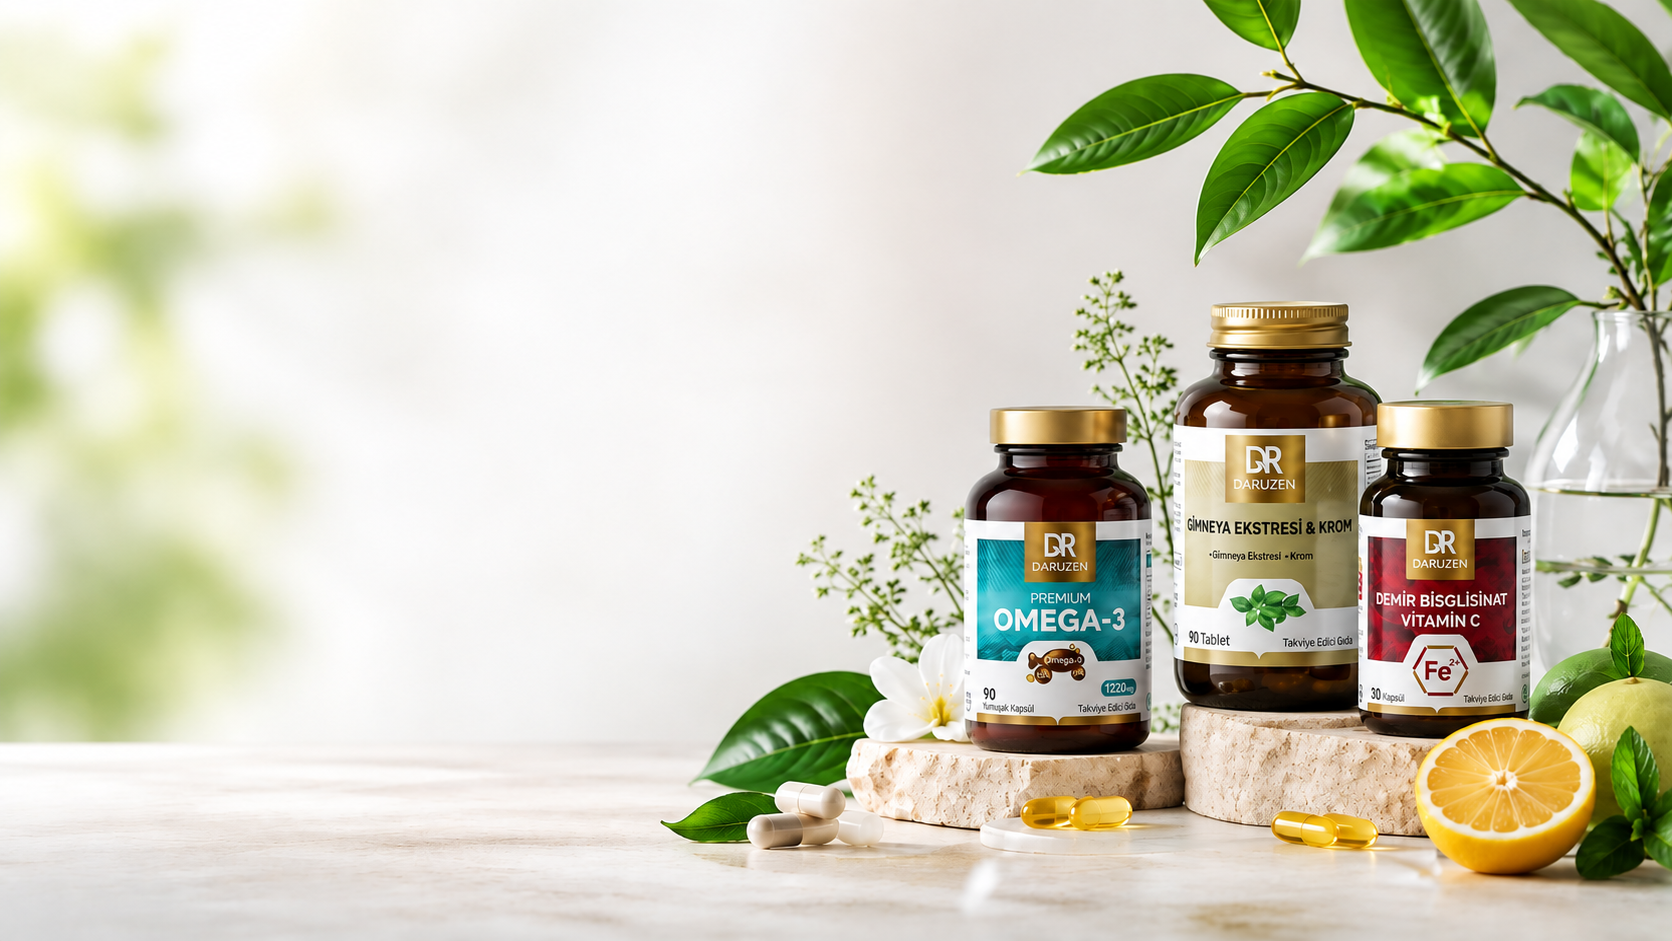
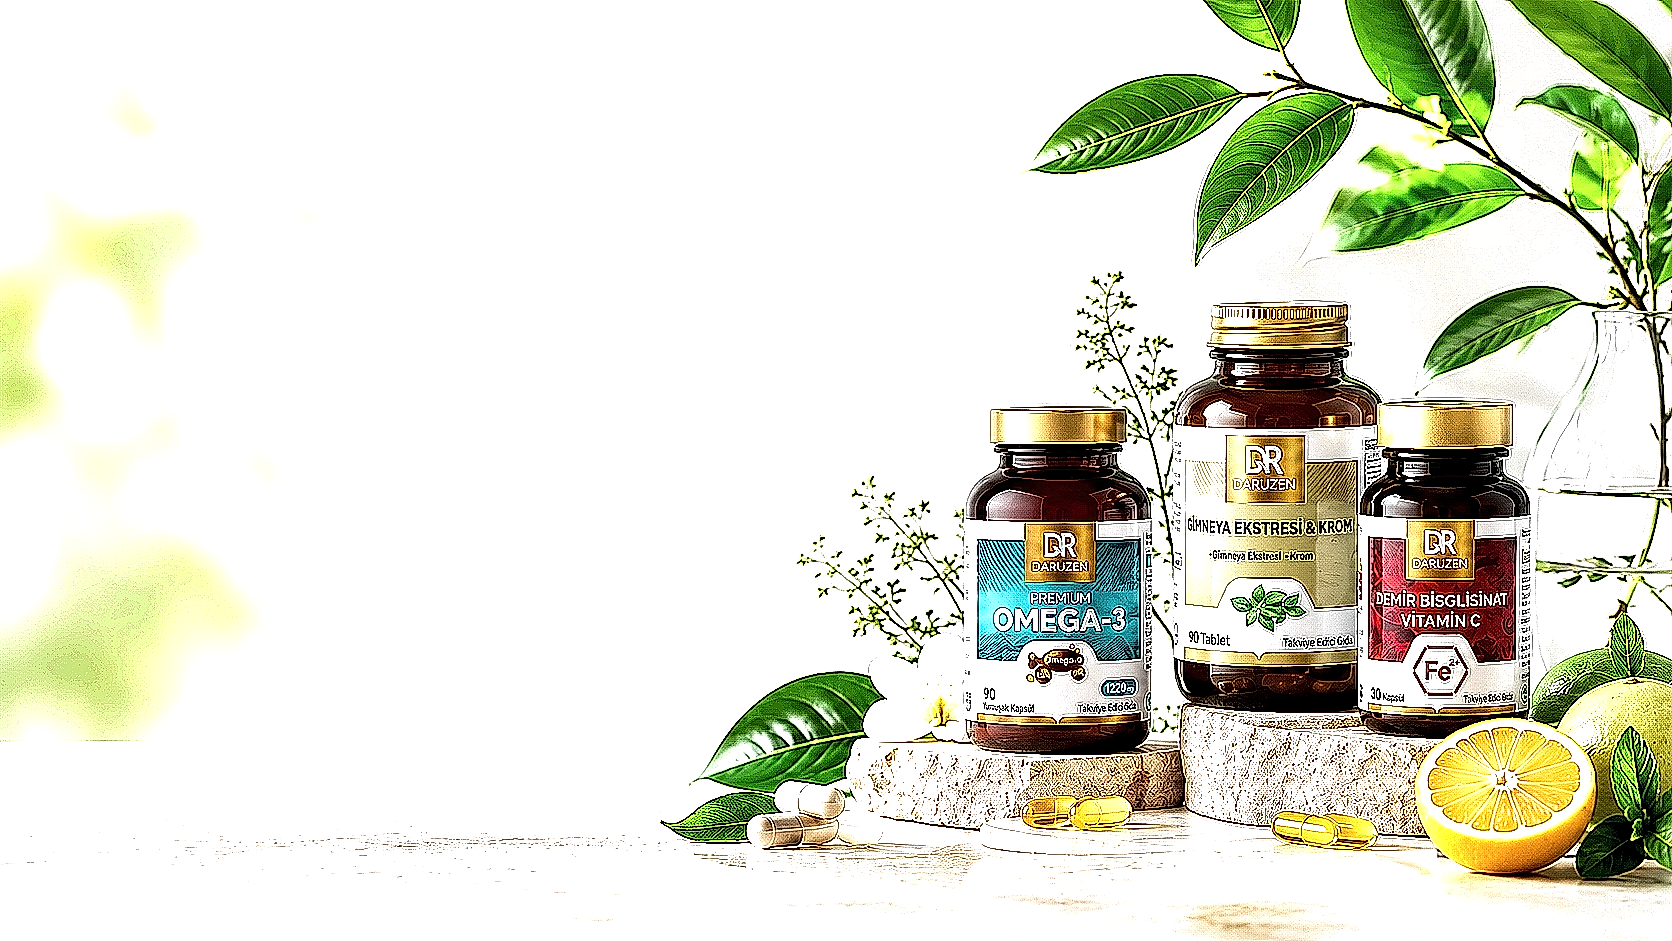
removeshadowbg

diff --git a/src/AppStyles.tsx b/src/AppStyles.tsx
@@ -49,7 +49,7 @@ const AppStyles = () => (
       inset: 0;
       z-index: 0;
       pointer-events: none;
-      background: linear-gradient(to right, rgba(255,255,255,0.6) 0%, rgba(255,255,255,0.2) 12%, transparent 22%);
+      background: linear-gradient(to right, rgba(255,255,255,0.7) 0%, rgba(255,255,255,0.35) 22%, transparent 42%);
     }
     @media (max-width: 778px) {
       .hero-section,
